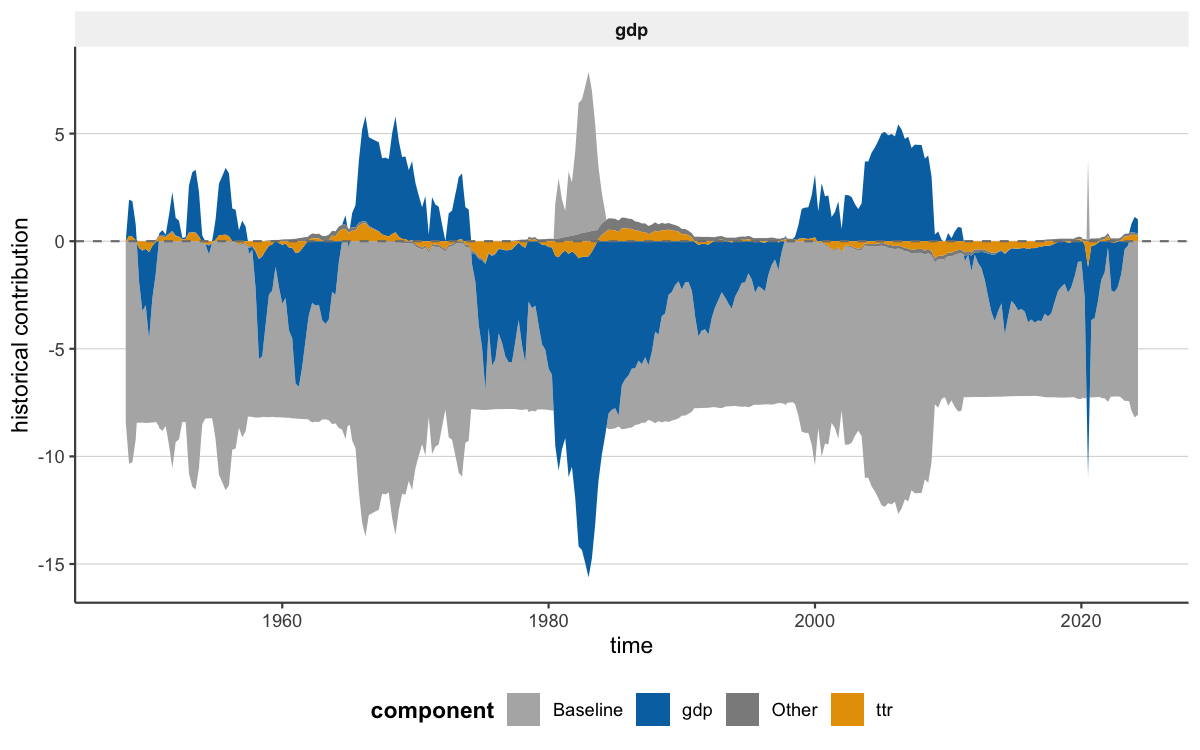
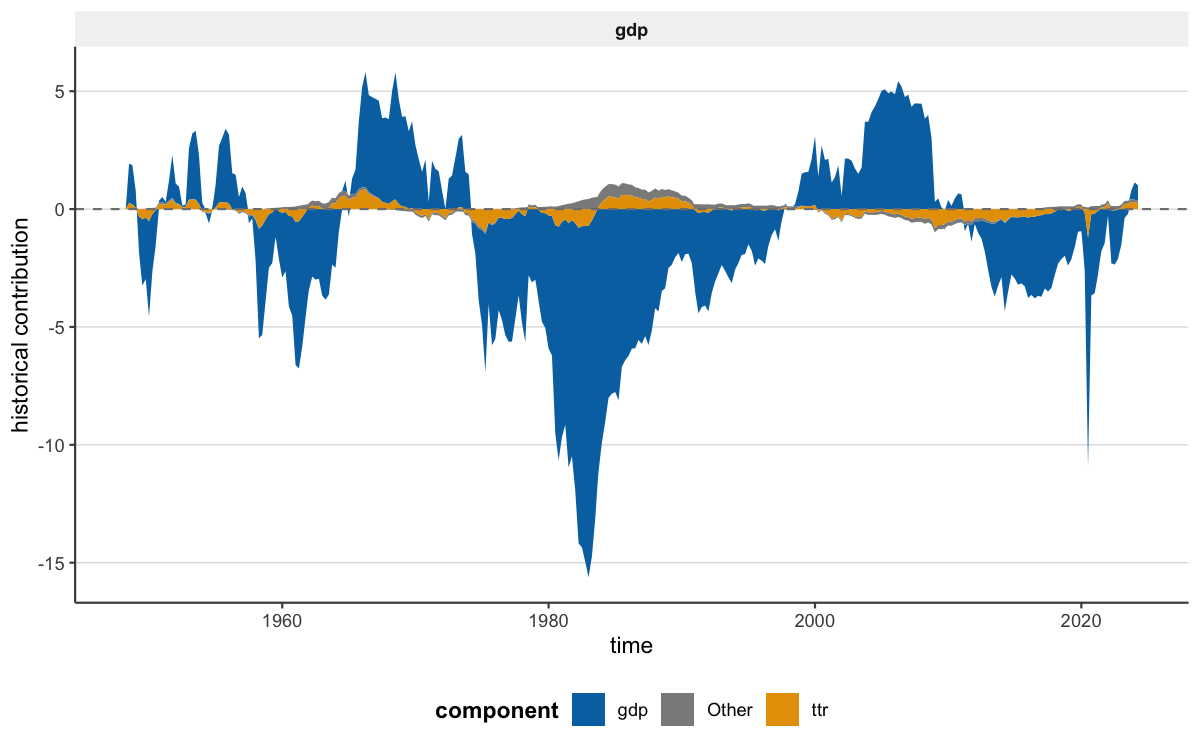
Make baseline optional in stacked HD plots

diff --git a/README.md b/README.md
@@ -393,9 +393,9 @@ For full-sample interpretation, the intended workflow is:
 
 - `plot_hd_overlay()` first, to compare shock paths over time without mixing in
   the raw observed level.
-- `plot_hd_stacked()` second, for a coherent composition view. It adds an
-  explicit `Baseline` component so the stacked areas sum to the realised series
-  on the plotted summary scale.
+- `plot_hd_stacked()` second, for a stacked shock-contribution view. Add
+  `include_baseline = TRUE` when you want the explicit `Baseline` component and
+  the full displayed decomposition.
 - `plot_hd_total()` third, to check the observed path against that same
   reconstructed decomposition total.
 
